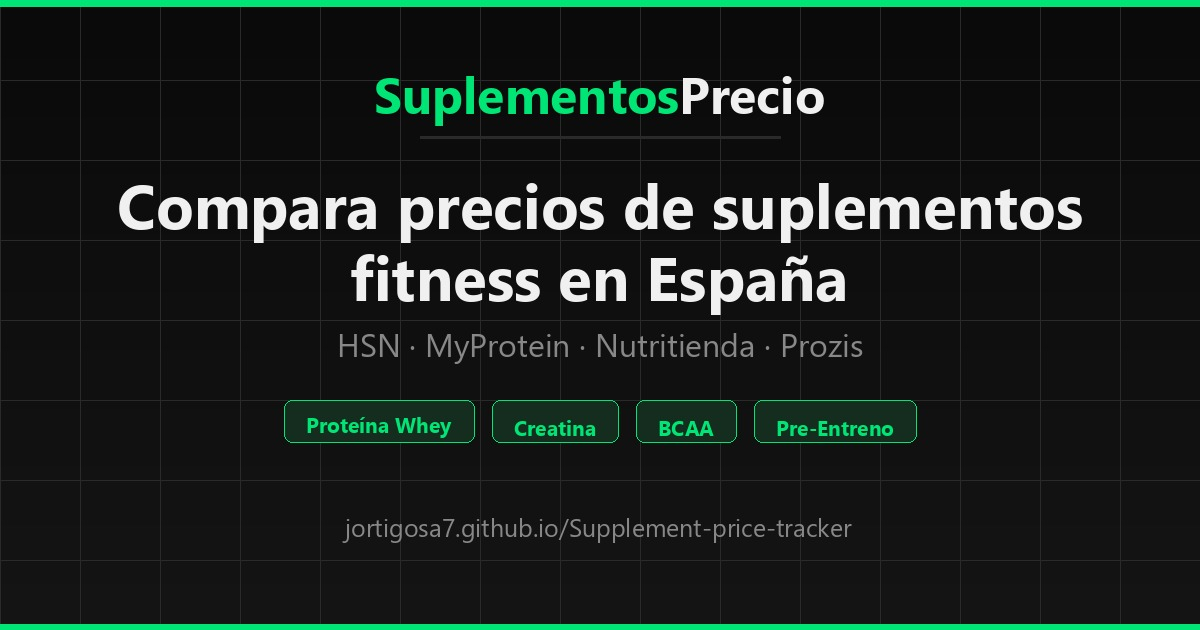
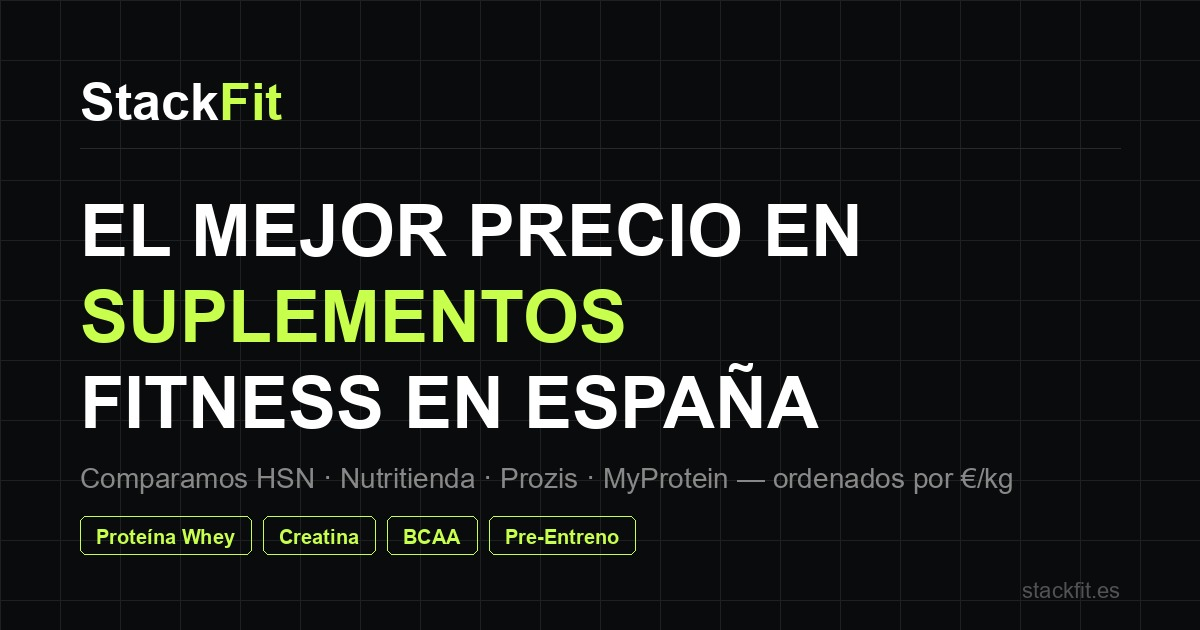
ux: paginación top ofertas 6 productos; og-image actualizado con branding StackFit

diff --git a/docs/index.html b/docs/index.html
@@ -3024,7 +3024,7 @@ window.ALL_PRODUCTS = [{"nombre": "IMPACT WHEY ISOLATE 2500g", "marca": "MyProte
 </script>
 <script>
 (function() {
-  const PER_PAGE = 5;
+  const PER_PAGE = 6;
   let dealsPage  = 0;
   let searchPage = 0;
   let searchResults = [];

diff --git a/templates/home.html b/templates/home.html
@@ -211,7 +211,7 @@ window.ALL_PRODUCTS = {{ all_products_json | safe }};
 </script>
 <script>
 (function() {
-  const PER_PAGE = 5;
+  const PER_PAGE = 6;
   let dealsPage  = 0;
   let searchPage = 0;
   let searchResults = [];
